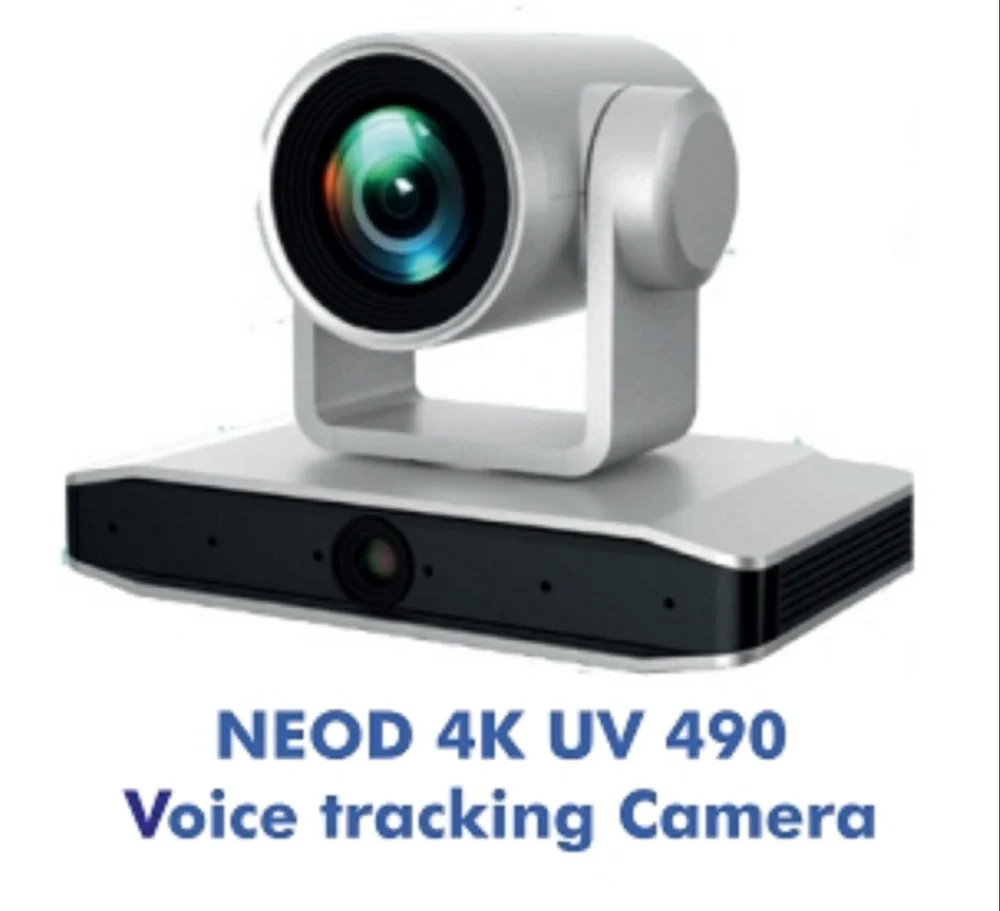
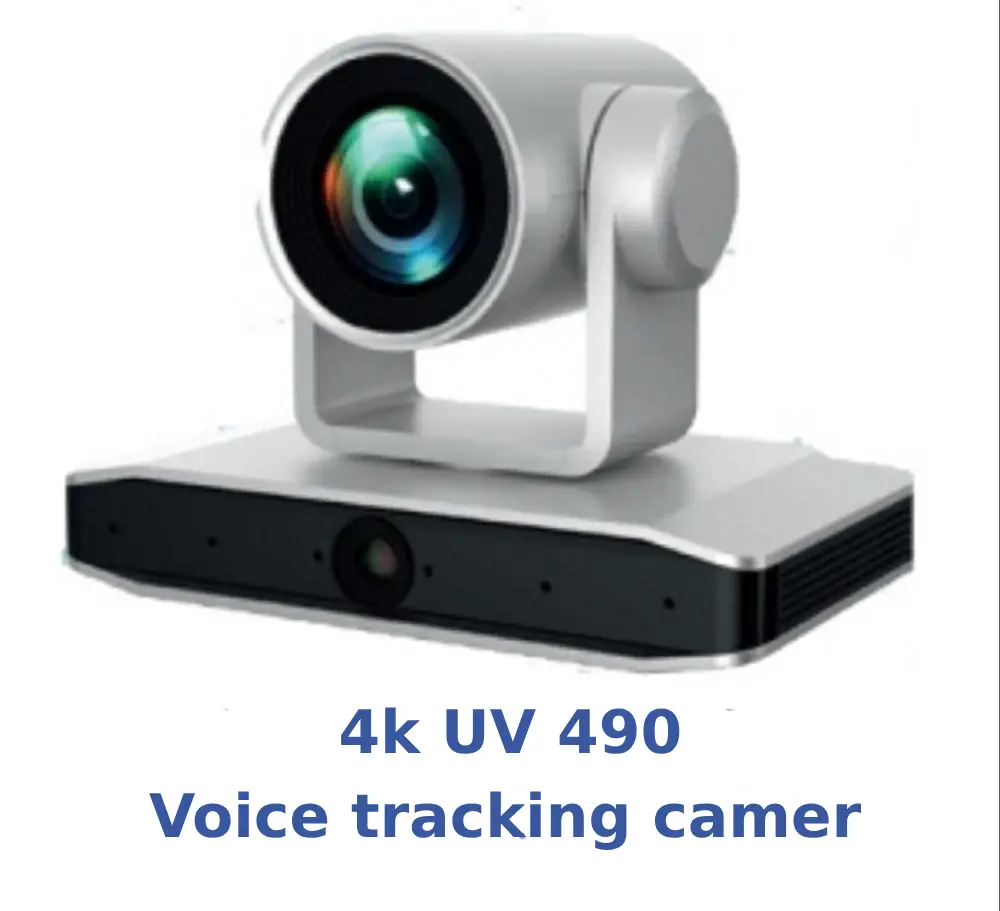
completley removed neod branding from site

Changed region(s): [[0.124, 0.7684, 0.899, 0.9528]]

diff --git a/src/App.js b/src/App.js
@@ -355,7 +355,7 @@ export default function App() {
                         url2: "/neod-65(1).webp",
                         url3: "/neod-65(2).webp",
                         url4: "/neod-65(3).webp",
-                        url5: "/neod-98.webp",
+                        // url5: "/neod-98.webp",
                       }}
                     />
                   </Box>
@@ -540,7 +540,7 @@ export default function App() {
                     }}
                     variant="h4"
                   >
-                    Neod A-Type Digital Signage
+                  A-Type Digital Signage
                   </Typography>
                 </Box>
               </Grid>
